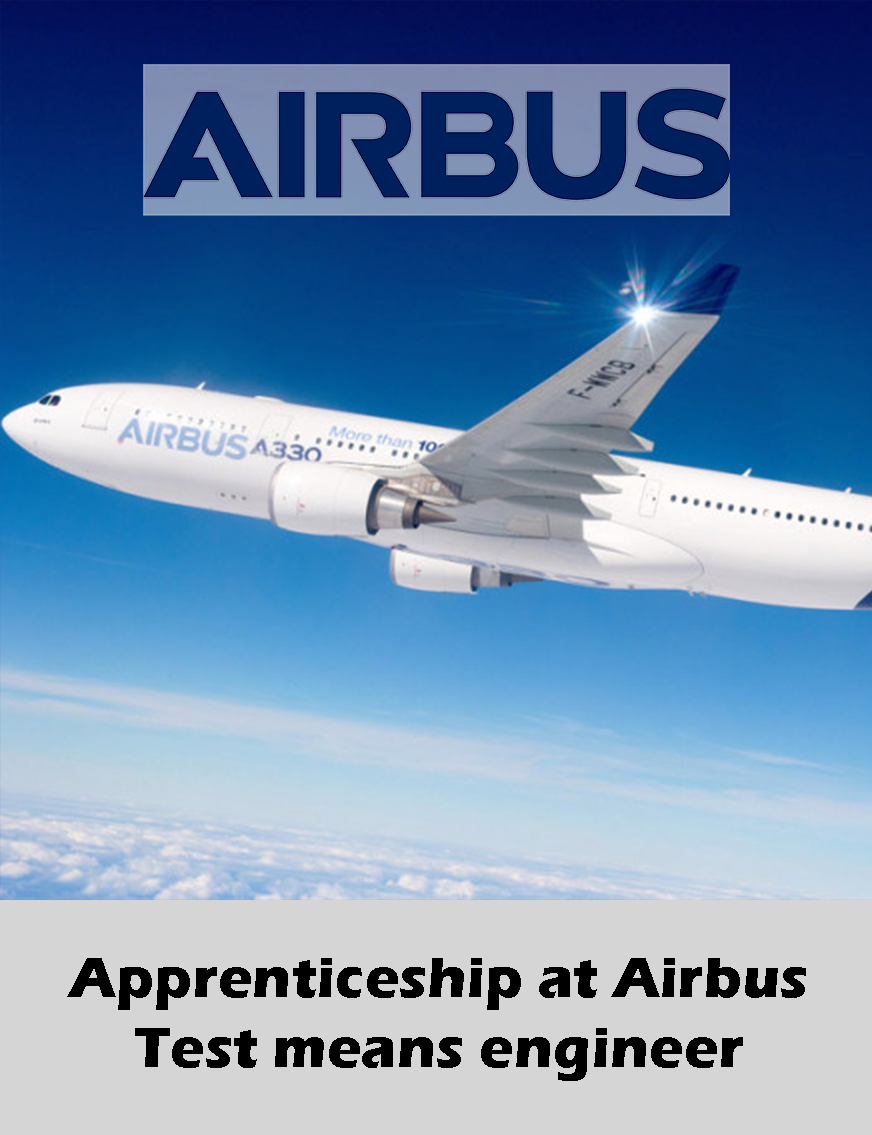
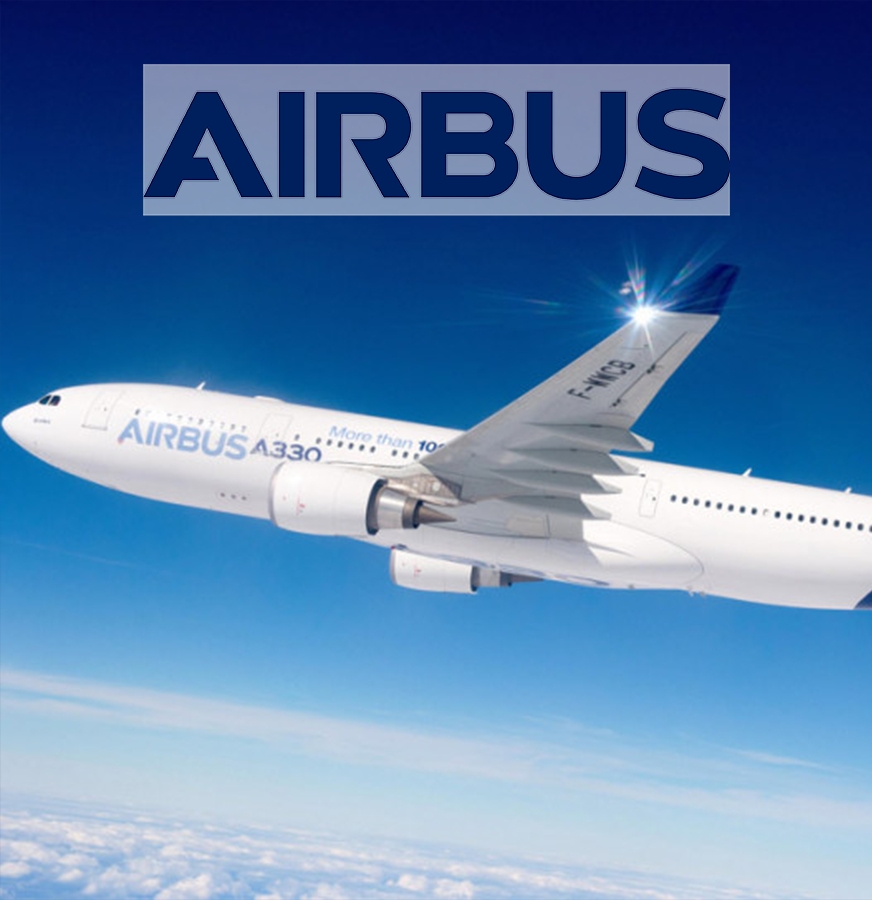
test

diff --git a/index.html b/index.html
@@ -58,46 +58,66 @@
     <section id="Professional-project" class="Professional-project-container">
         <h1 class="section-title">Professionnal career</h1>
         <div class="best-plants">
-            <a href="https://www.bonsecours66.com/" class="plant-box no-grid plant1"></a>
-            <a href="https://www.cesi.fr/ingenieur/cursus-ingenieur-systemes-electriques-et-electroniques-embarques-alternance/" class="plant-box no-grid plant2"></a>
-            <a href="https://www.lid.tech/fr/accueil/" class="plant-box no-grid plant3"></a>
-            <a href="https://www.airbus.com/en" class="plant-box no-grid plant4"></a>
+            <a href="https://www.bonsecours66.com/"  target="_blank" class="plant-box no-grid plant1">
+                <div class="box-bio">
+                    <h1 class="box-name">Baccalaureate with high honours, Mathematics and physics-chemistry</h1>
+                    <h3 class="box-price">2018-2021</h3>
+                </div>
+            </a>
+            <a href="https://www.cesi.fr/ingenieur/cursus-ingenieur-systemes-electriques-et-electroniques-embarques-alternance/" target="_blank" class="plant-box no-grid plant2">
+                <div class="box-bio">
+                    <h1 class="box-name">Engineering diploma, Embedded system engineer</h1>
+                    <h3 class="box-price">2021-2026</h3>
+                </div>
+            </a>
+            <a href="https://www.lid.tech/fr/accueil/" target="_blank" class="plant-box no-grid plant3">
+                <div class="box-bio">
+                    <h1 class="box-name">Internship at LID Technologies, software and test engineer</h1>
+                    <h3 class="box-price">2023</h3>
+                </div>
+            </a>
+            <a href="https://www.airbus.com/en" target="_blank" class="plant-box no-grid plant4">
+                <div class="box-bio">
+                    <h1 class="box-name">Apprenticeship at Airbus, test means engineer</h1>
+                    <h3 class="box-price">2023-2026</h3>
+                </div>
+            </a>
         </div>
     </section>
     <section id="Personnal-project" class="Personnal-project-container">
         <h1 class="section-title">Personal achievement</h1>
         <div class="grid-plants">
-            <a href="#" class="plant-box grid plant-grid1">
+            <a href="index2.html" class="plant-box grid plant-grid1">
                 <div class="plant-bio">
                     <h1 class="plant-name">4L Trophy</h1>
                     <h3 class="plant-price">2023-2024</h3>
                 </div>
             </a>
-            <a href="#" class="plant-box grid plant-grid2">
+            <a href="index2.html" class="plant-box grid plant-grid2">
                 <div class="plant-bio">
                     <h1 class="plant-name">Electronic projects</h1>
                     <h3 class="plant-price">2024</h3>
                 </div>
             </a>
-            <a href="#" class="plant-box grid plant-grid3">
+            <a href="index2.html" class="plant-box grid plant-grid3">
                 <div class="plant-bio">
                     <h1 class="plant-name">Aeronautics Initiation Certificate</h1>
                     <h3 class="plant-price">2024</h3>
                 </div>
             </a>
-            <a href="#" class="plant-box grid plant-grid4">
+            <a href="index2.html" class="plant-box grid plant-grid4">
                 <div class="plant-bio">
                     <h1 class="plant-name">Federal tennis initiator</h1>
                     <h3 class="plant-price">2019</h3>
                 </div>
             </a>
-            <a href="#" class="plant-box grid plant-grid5">
+            <a href="index2.html" class="plant-box grid plant-grid5">
                 <div class="plant-bio">
                     <h1 class="plant-name">Software projects</h1>
                     <h3 class="plant-price">2023</h3>
                 </div>
             </a>
-            <a href="#" class="plant-box grid plant-grid6">
+            <a href="index2.html" class="plant-box grid plant-grid6">
                 <div class="plant-bio">
                     <h1 class="plant-name">Sports projects</h1>
                     <h3 class="plant-price">2022</h3>

diff --git a/styles.css b/styles.css
@@ -187,7 +187,7 @@
 }
 
 .plant-box::before {
-    content: "En savoir plus";
+    content: "More about";
     position: absolute;
     width: 100%;
     height: 100%;
@@ -223,6 +223,28 @@
 }
 
 .plant-price {
+    font-weight: 300;
+    font-size: 15px;
+}
+
+.box-bio {
+    position: absolute;
+    bottom: 0;
+    display: flex;
+    background: #FFFFFFDF;
+    width: 100%;
+    justify-content: space-between;
+    align-items: center;
+    padding: 15px 20px;
+    flex-wrap: wrap;
+}
+
+.box-name {
+    font-weight: 500;
+    font-size: 20px;
+}
+
+.box-price {
     font-weight: 300;
     font-size: 15px;
 }
@@ -276,7 +298,7 @@
 
 .plant-box {
     position: relative;
-    background-size: cover;
+    background-size:cover;
     background-position: center;
     cursor: pointer;
     text-decoration: none;

diff --git a/styles2.css b/styles2.css
@@ -1,0 +1,10 @@
+@import url('https://fonts.googleapis.com/css2?family=Montserrat:wght@100;200;300;400;500;600;700;800;900&display=swap');
+@import url('https://fonts.googleapis.com/css2?family=Abril+Fatface&display=swap');
+
+* {
+    margin: 0;
+    padding: 0;
+    box-sizing: border-box;
+    font-family: "Montserrat", sans-serif;
+    scroll-behavior: smooth;
+}

diff --git a/index2.html b/index2.html
@@ -1,0 +1,10 @@
+<!DOCTYPE html>
+<html lang="en">
+
+<head>
+    <meta charset="UTF-8">
+    <meta name="viewport" content="width=device-width, initial-scale=1.0">
+    <link rel="stylesheet" href="styles2.css">
+    <script src="https://cdnjs.cloudflare.com/ajax/libs/font-awesome/5.12.0-2/js/all.min.js"></script>
+    <title>Portfolio2-Theo</title>
+</head>
